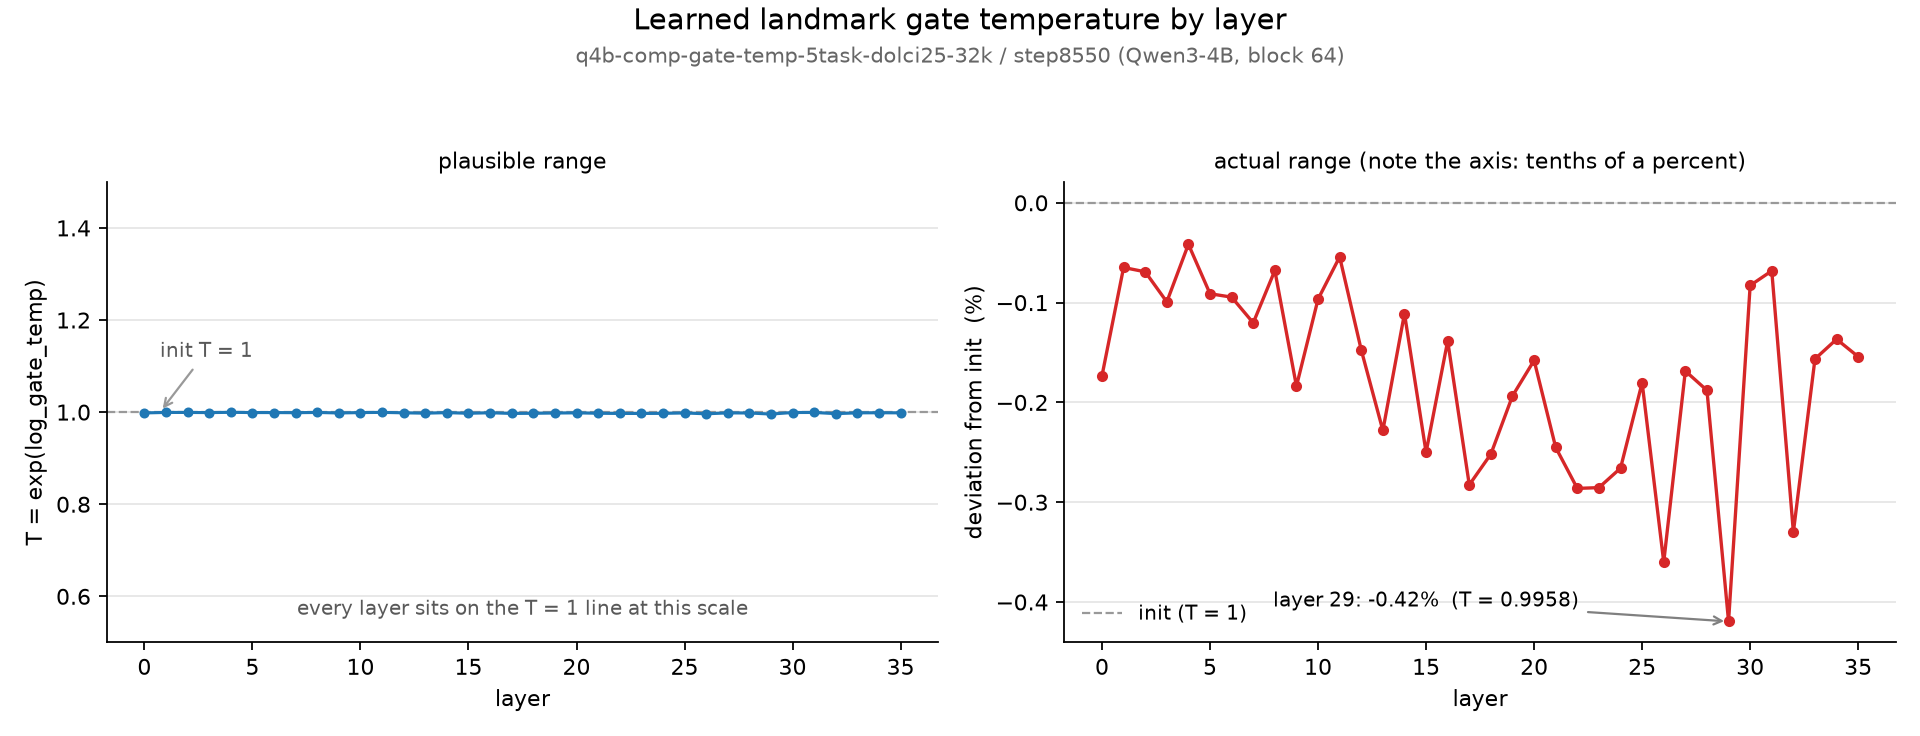
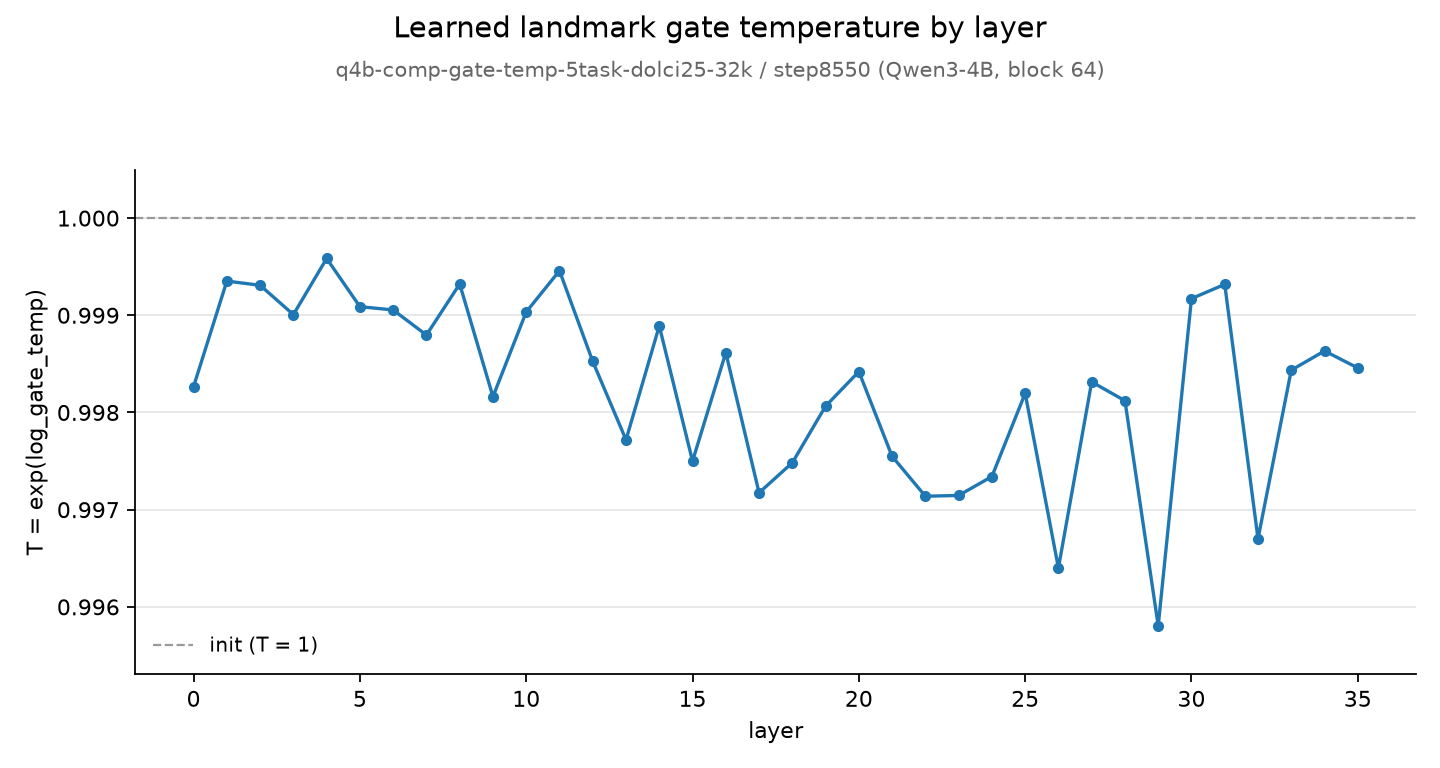
Single-panel gate temperature plot on the T axis
Plot T directly with ticks every 0.001, instead of two panels and percent change
from init.

diff --git a/analysis/gate_scores/plot_gate_temp.py b/analysis/gate_scores/plot_gate_temp.py
@@ -4,10 +4,6 @@
 Reads the ``JSON [...]`` line that :mod:`dump_gate_temp` prints (pass either that raw line, a file
 containing it, or a bare JSON array) and draws ``T = exp(log_gate_temp)`` against layer index.
 
-The whole story is the y-axis scale, so the figure makes it explicit: the left panel is drawn on the
-range the parameter *could* have reached, the right panel zooms to the range it actually reached,
-with the deviation from the ``T = 1`` init annotated in percent.
-
 Usage::
 
     python analysis/gate_scores/plot_gate_temp.py gate_temp_s8550.json --out figs/gate_temp.png
@@ -20,6 +16,7 @@ import matplotlib
 
 matplotlib.use("Agg")
 import matplotlib.pyplot as plt  # noqa: E402
+from matplotlib.ticker import FuncFormatter, MultipleLocator  # noqa: E402
 
 INIT_T = 1.0
 
@@ -45,70 +42,32 @@ def main():
     rows = sorted(_load(args.source), key=lambda r: r["layer"])
     layers = [r["layer"] for r in rows]
     temps = [r["temp"] for r in rows]
-    # Deviation from the T = 1 init, in percent -- the only scale on which this parameter moved.
-    dev_pct = [100.0 * (t - INIT_T) for t in temps]
 
-    fig, (ax_full, ax_zoom) = plt.subplots(1, 2, figsize=(12, 4.6))
+    fig, ax = plt.subplots(figsize=(9, 4.8))
 
-    # Left: the range a temperature could plausibly occupy, to show how little this one moved.
-    ax_full.axhline(INIT_T, color="0.6", lw=1, ls="--", zorder=1)
-    ax_full.plot(layers, temps, "-o", ms=3.5, lw=1.4, color="#1f77b4", zorder=3)
-    ax_full.set_ylim(0.5, 1.5)
-    ax_full.set_xlabel("layer")
-    ax_full.set_ylabel("T = exp(log_gate_temp)")
-    ax_full.set_title("plausible range", fontsize=10)
-    ax_full.annotate(
-        "init T = 1",
-        xy=(len(layers) * 0.02, INIT_T),
-        xytext=(len(layers) * 0.02, 1.12),
-        fontsize=9,
-        color="0.35",
-        arrowprops=dict(arrowstyle="->", color="0.6", lw=1),
-    )
-    ax_full.text(
-        0.5,
-        0.06,
-        "every layer sits on the T = 1 line at this scale",
-        transform=ax_full.transAxes,
-        ha="center",
-        fontsize=9,
-        color="0.35",
-    )
+    ax.axhline(INIT_T, color="0.6", lw=1, ls="--", zorder=1, label="init (T = 1)")
+    ax.plot(layers, temps, "-o", ms=4, lw=1.5, color="#1f77b4", zorder=3)
 
-    # Right: the range actually occupied.
-    ax_zoom.axhline(0.0, color="0.6", lw=1, ls="--", zorder=1, label="init (T = 1)")
-    ax_zoom.plot(layers, dev_pct, "-o", ms=4, lw=1.5, color="#d62728", zorder=3)
-    ax_zoom.set_xlabel("layer")
-    ax_zoom.set_ylabel("deviation from init  (%)")
-    ax_zoom.set_title("actual range (note the axis: tenths of a percent)", fontsize=10)
-    ax_zoom.legend(frameon=False, fontsize=9, loc="lower left")
+    # Ticks every 0.001 in T, i.e. one tick per tenth of a percent.
+    ax.yaxis.set_major_locator(MultipleLocator(0.001))
+    ax.yaxis.set_major_formatter(FuncFormatter(lambda v, _: f"{v:.3f}"))
+    ax.set_ylim(min(temps) - 0.0005, INIT_T + 0.0005)
 
-    lo = min(dev_pct, key=lambda d: d)
-    lo_layer = layers[dev_pct.index(lo)]
-    ax_zoom.annotate(
-        f"layer {lo_layer}: {lo:.2f}%  (T = {min(temps):.4f})",
-        xy=(lo_layer, lo),
-        xytext=(len(layers) * 0.22, lo + 0.015),
-        fontsize=9,
-        arrowprops=dict(arrowstyle="->", color="0.5", lw=1),
-    )
+    ax.set_xlabel("layer")
+    ax.set_ylabel("T = exp(log_gate_temp)")
+    ax.legend(frameon=False, fontsize=9, loc="lower left")
+    ax.spines[["top", "right"]].set_visible(False)
+    ax.grid(axis="y", color="0.9", lw=0.8, zorder=0)
+    ax.set_axisbelow(True)
 
-    for ax in (ax_full, ax_zoom):
-        ax.spines[["top", "right"]].set_visible(False)
-        ax.grid(axis="y", color="0.9", lw=0.8, zorder=0)
-        ax.set_axisbelow(True)
-
-    fig.suptitle(args.title, fontsize=13, y=0.99)
-    fig.text(0.5, 0.915, args.subtitle, ha="center", fontsize=9.5, color="0.4")
-    fig.tight_layout(rect=(0, 0, 1, 0.90))
+    fig.suptitle(args.title, fontsize=13, y=0.98)
+    fig.text(0.5, 0.90, args.subtitle, ha="center", fontsize=9.5, color="0.4")
+    fig.tight_layout(rect=(0, 0, 1, 0.88))
 
     os.makedirs(os.path.dirname(os.path.abspath(args.out)), exist_ok=True)
     fig.savefig(args.out, dpi=160)
     print(f"wrote {args.out}")
-    print(
-        f"T range [{min(temps):.6f}, {max(temps):.6f}], mean {sum(temps) / len(temps):.6f}; "
-        f"max deviation from init {max(abs(d) for d in dev_pct):.3f}%"
-    )
+    print(f"T range [{min(temps):.6f}, {max(temps):.6f}], mean {sum(temps) / len(temps):.6f}")
 
 
 if __name__ == "__main__":
